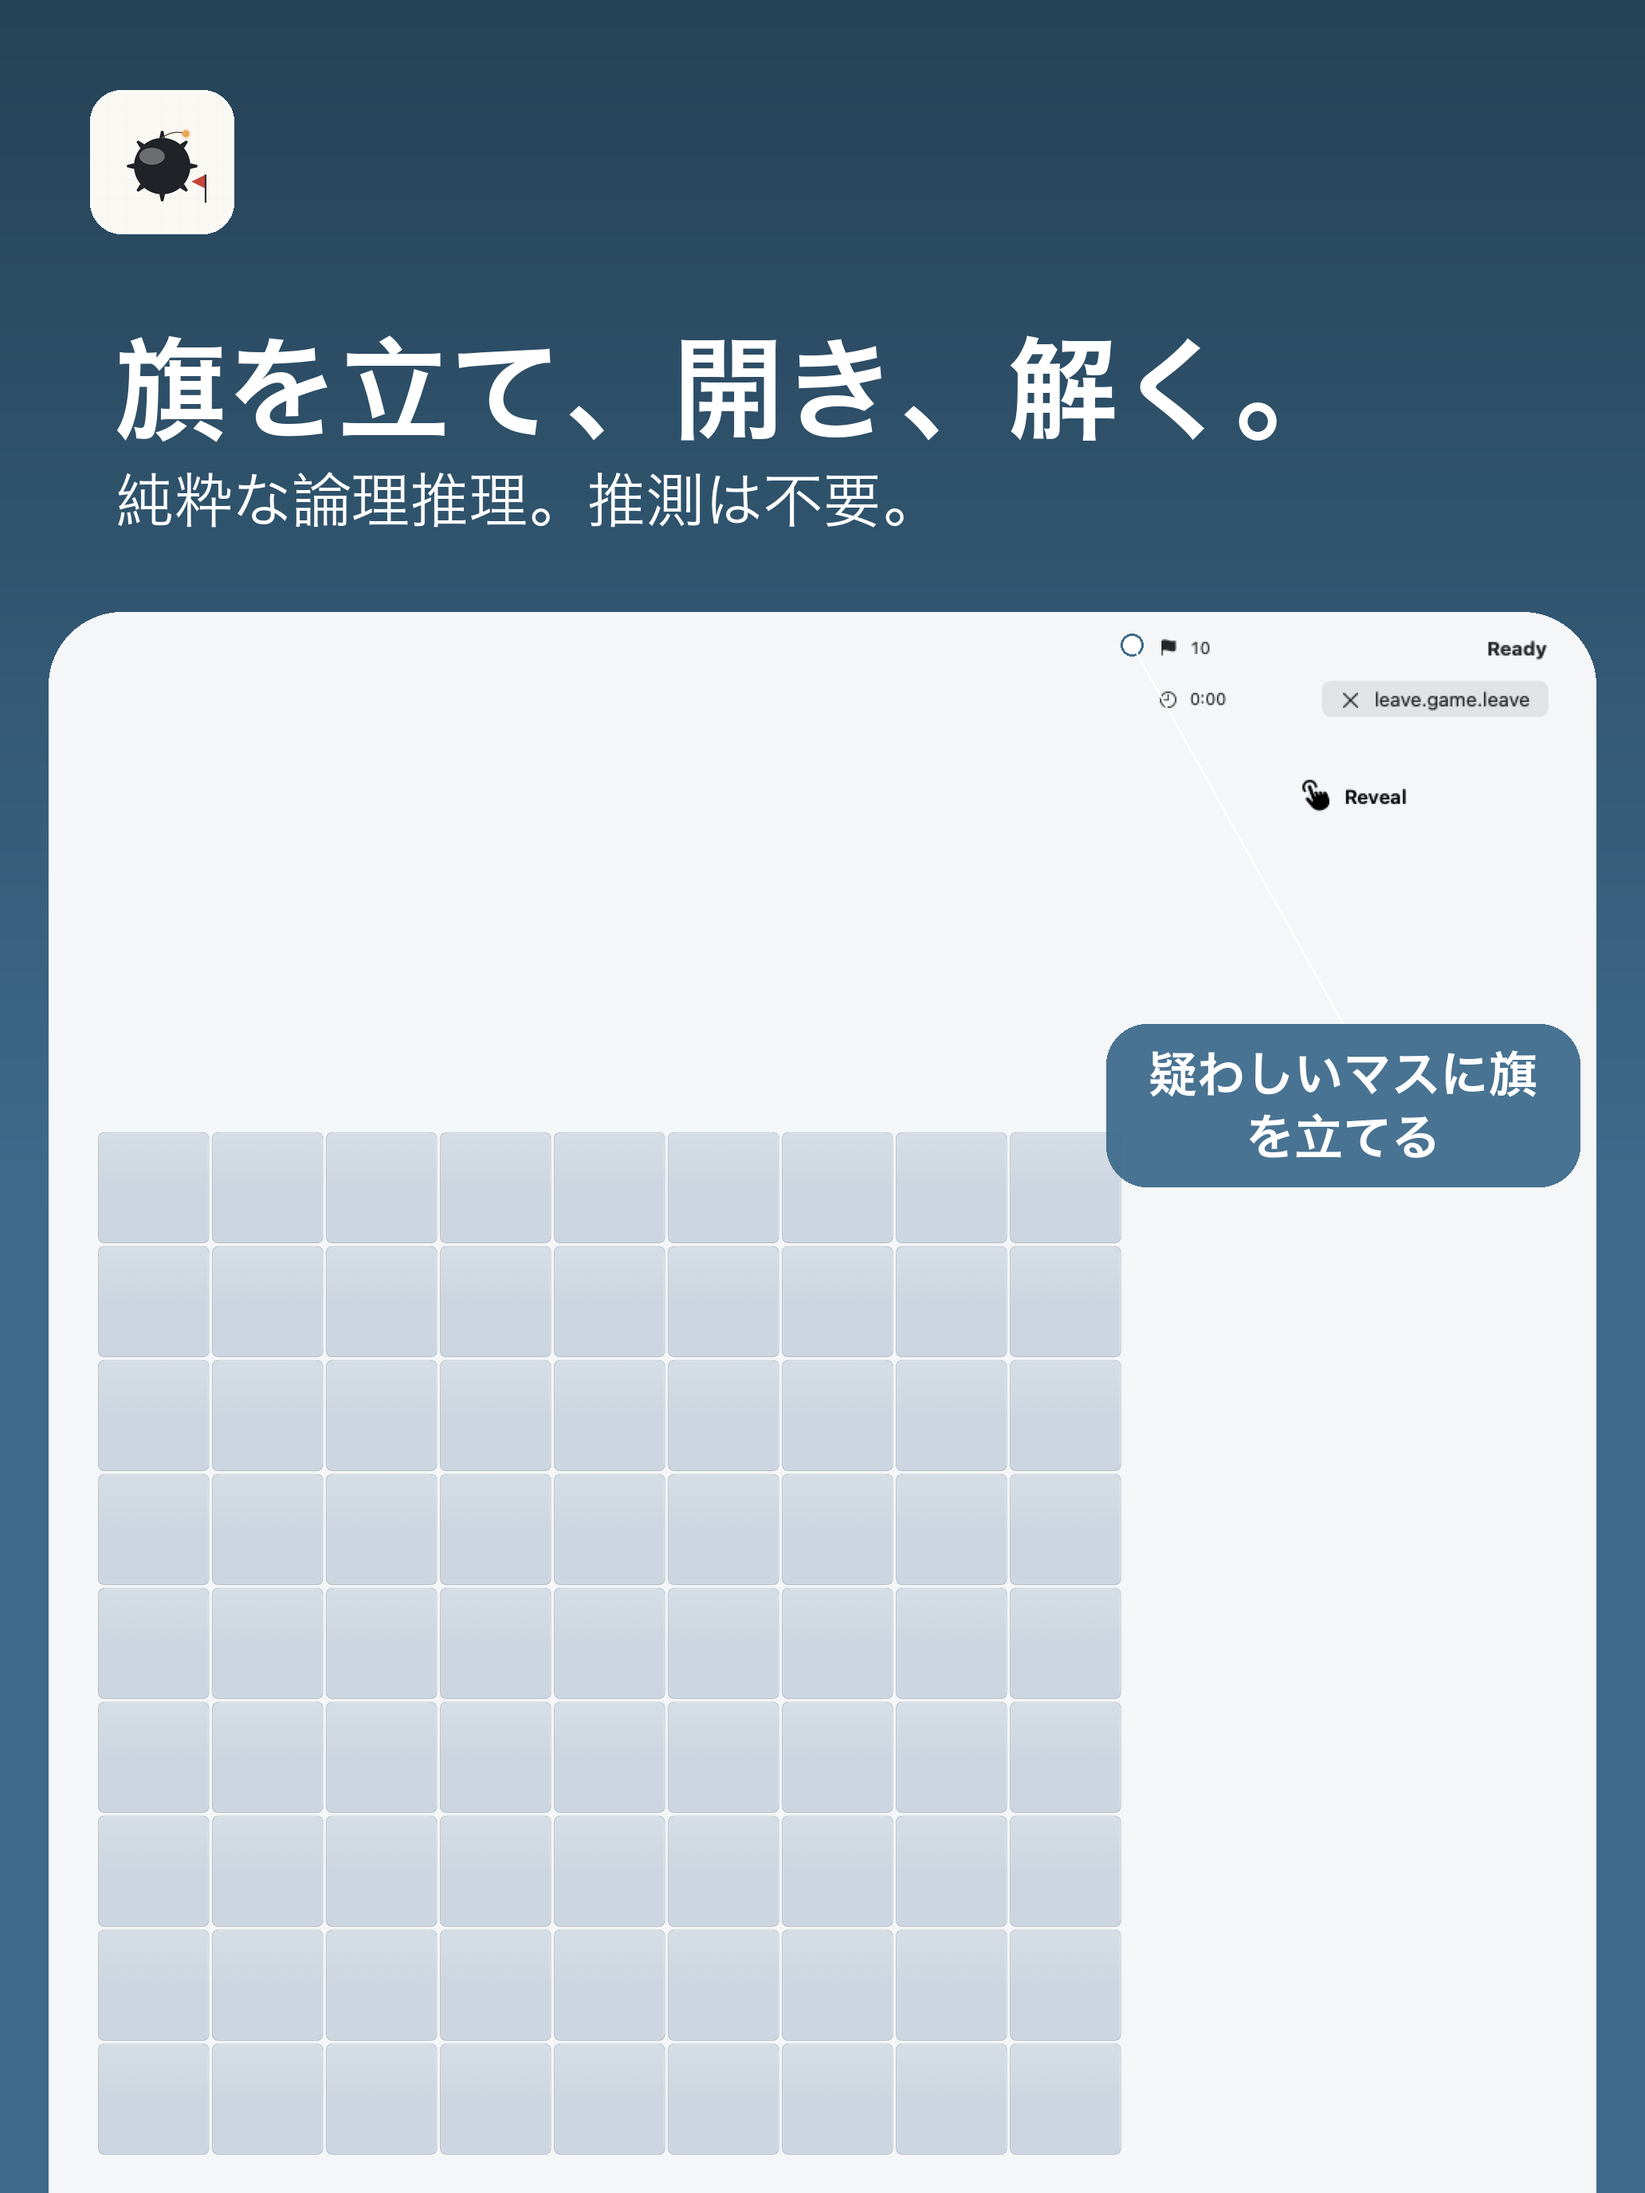
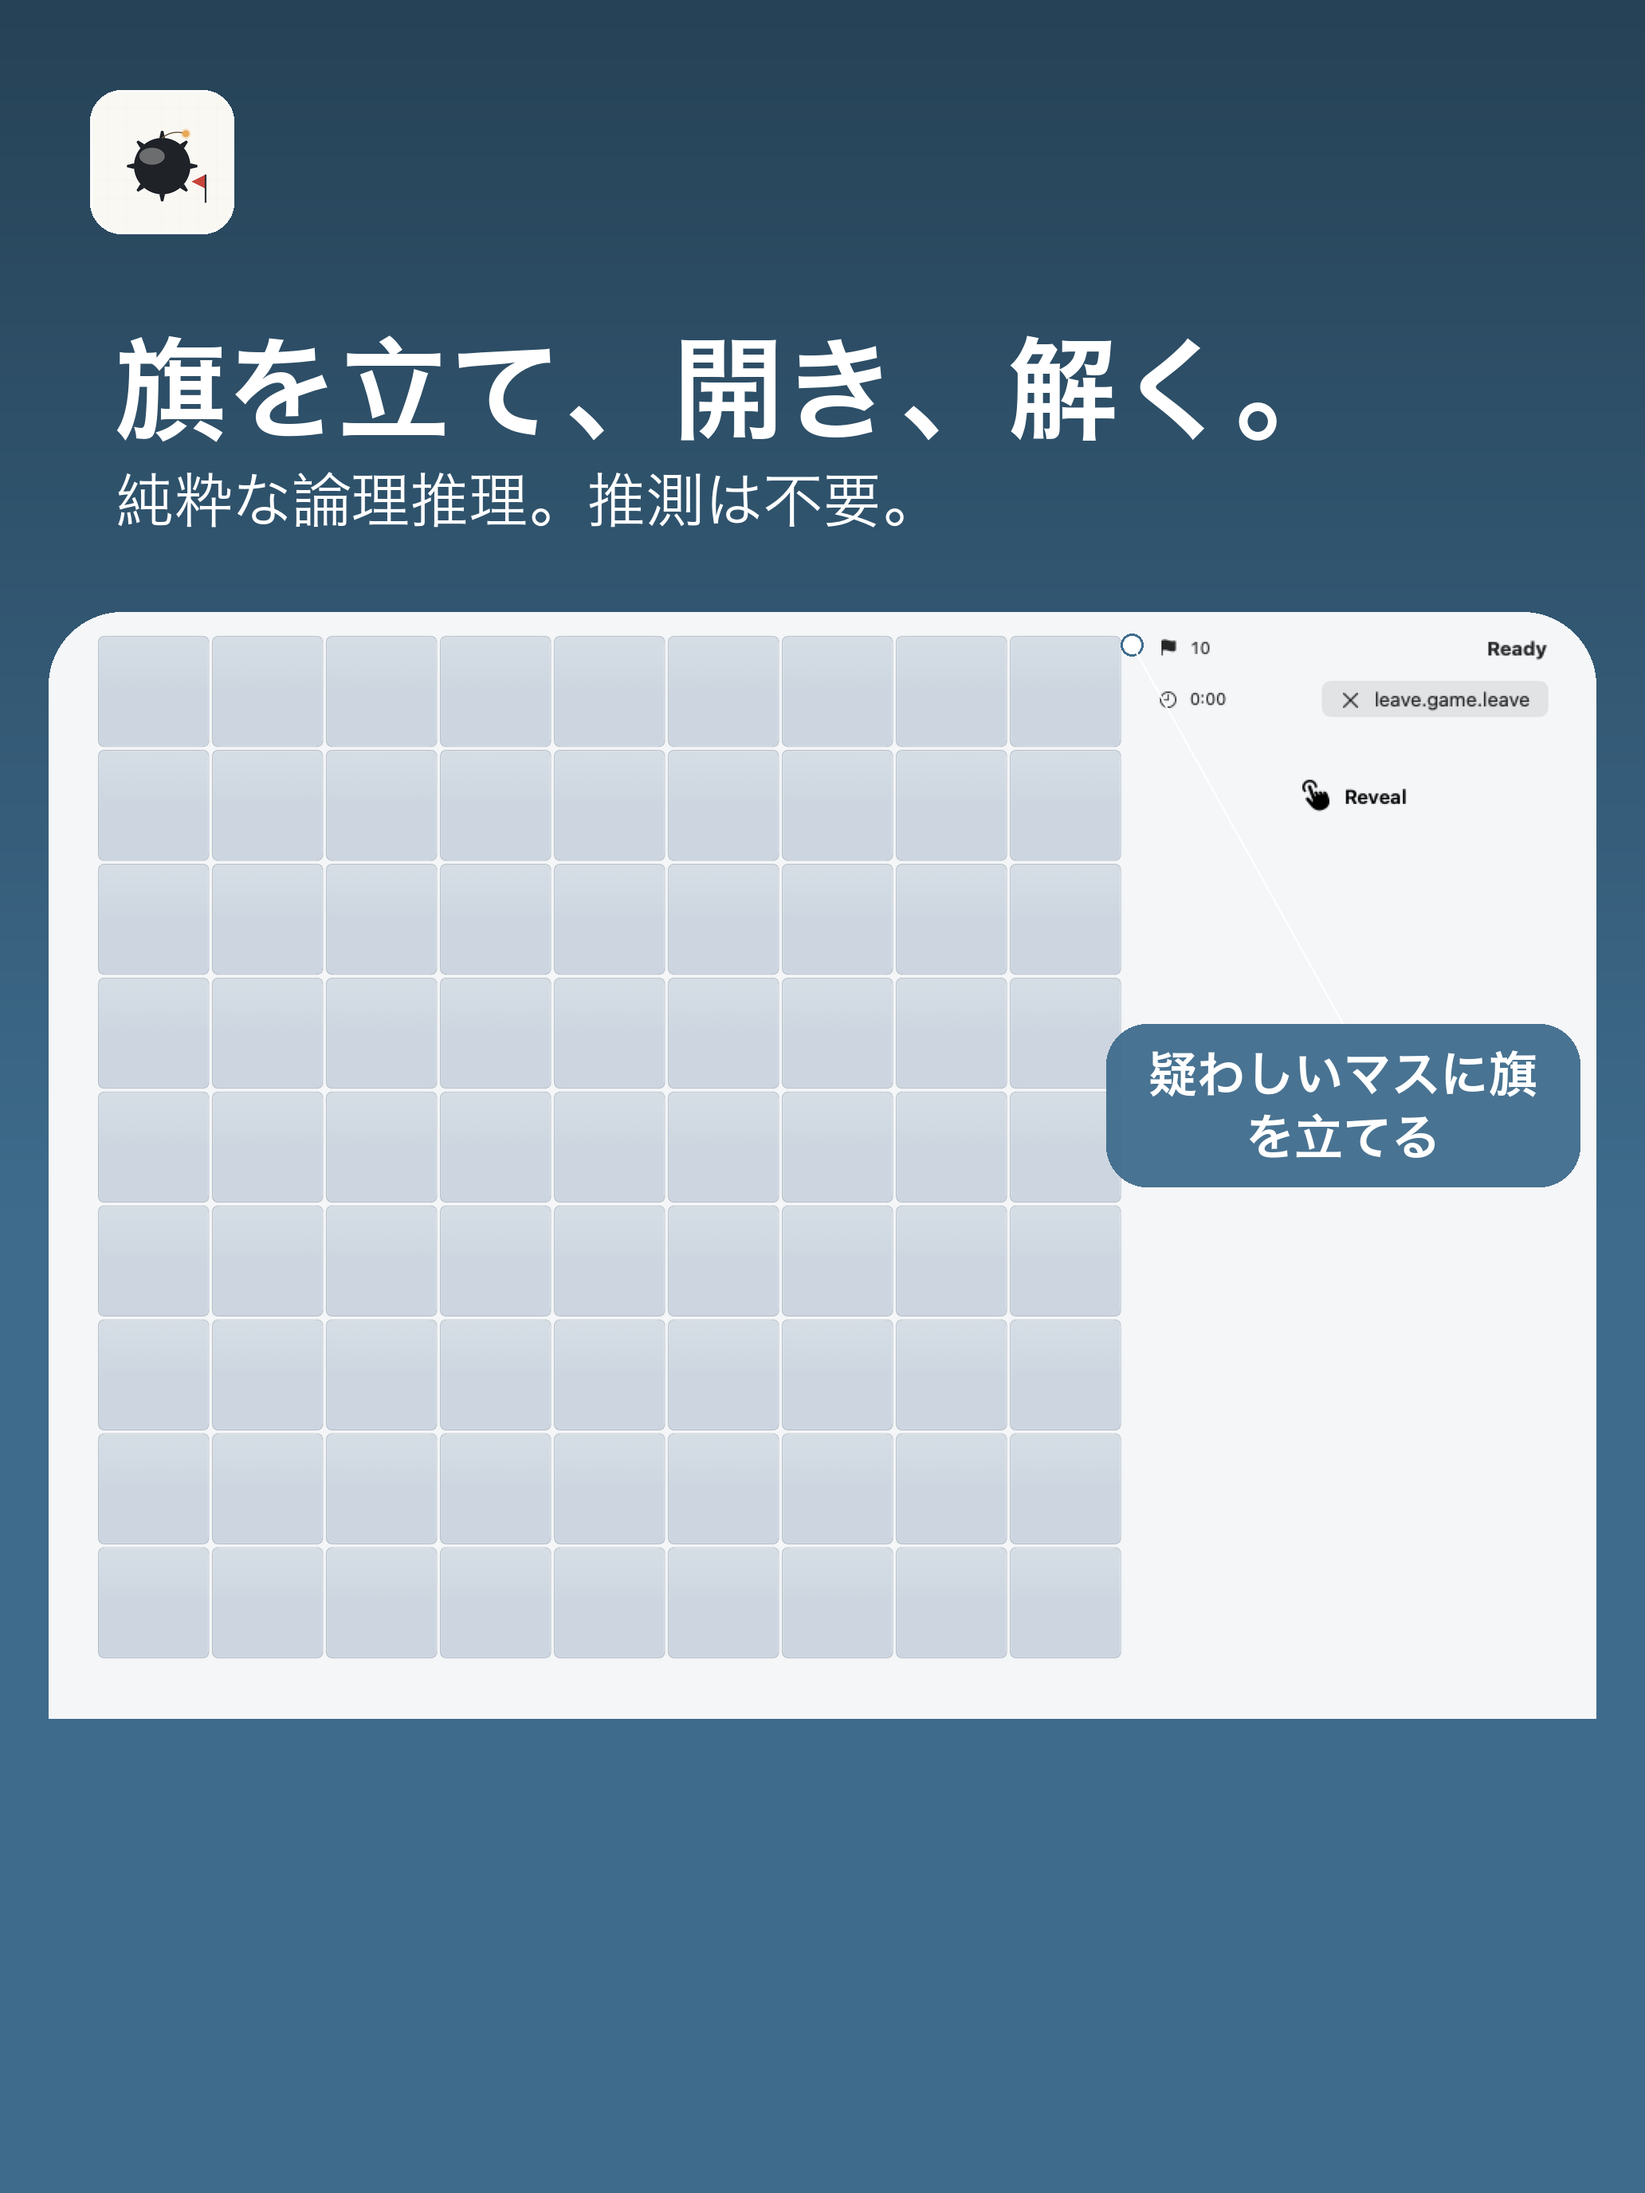
fix(board): top-align the fitted iPad board under fillsColumn (#1101 round 2)
Code review on a137f69b: Beginner (9x9) is width-bound in every regular
layout, so under .fillsColumn the fitted branch's `.center` alignment put the
same 484 pt board in the middle of the whole column, moving the blank from
below the board to above AND below it, and the ASC Beginner store frame
gained a large gap between the HUD and the board. PM ruling (2026-09-24):
"fill the column" means the board starts where the column starts, so the
fitted board is top-aligned under .fillsColumn only.

- `boardGrid` takes `fittedAlignment: Alignment = .center`, applied only to
  the `.fitted` branch frame; compact (iPhone) keeps the default, capped
  (Mac) passes `.center` via the new pure `fittedAlignment(for:)` helper
  (.fillsColumn -> .top, .cappedDetailPane -> .center), pinned by
  RegularBoardContainerTests.
- Mutations: default flipped to `.top` turns 11 iPhone/iPad board snapshots
  red; helper's .fillsColumn branch flipped to .center turns the unit test
  red. Full suite 416 tests / 71 suites green; no iPhone or Mac PNG moved;
  the capped iPad baseline still sha1 dd773643f6a36922bbd447ddd292ce1f356cc4a2.
- iPad .fillsColumn baseline re-recorded (board flush with the column top);
  the 7 Minesweeper ipad-13 03-board store frames regenerated (168 slots,
  only those 7 changed). They stay #1054-affected.

diff --git a/Packages/MinesweeperKit/Sources/MinesweeperUI/MinesweeperBoardView.swift b/Packages/MinesweeperKit/Sources/MinesweeperUI/MinesweeperBoardView.swift
@@ -510,7 +510,9 @@ public struct MinesweeperBoardView: View {
             // board. (An earlier revision of #1022 added one here and then
             // removed it; this note is why it should not come back, not a
             // record of something main ever had.)
-            boardGrid
+            // #1101 round 2: compact (iPhone) always centers its fitted
+            // board — only regular `.fillsColumn` (iPad) top-aligns.
+            boardGrid()
                 .layoutPriority(1)
             bannerSlot(horizontalPadding: theme.spacing.medium)
             controlCluster
@@ -603,7 +605,7 @@ public struct MinesweeperBoardView: View {
     }
 
     private var macBoardColumn: some View {
-        boardGrid
+        boardGrid(fittedAlignment: Self.fittedAlignment(for: regularBoardContainer))
             .frame(maxWidth: macBoardFrameMaxSide, maxHeight: macBoardFrameMaxSide)
             .frame(maxWidth: .infinity, alignment: .center)
     }
@@ -895,6 +897,24 @@ public struct MinesweeperBoardView: View {
         }
     }
 
+    // #1101 round 2: Beginner (9×9) is always width-bound and lands in
+    // `.fitted`. Under `.fillsColumn` (iPad), `.fitted`'s frame is the WHOLE
+    // column height, and a `.center` alignment there splits the leftover
+    // space into a band above AND below the board — the ASC Beginner store
+    // frame showed this as dead space sandwiched around a small board. "Fill
+    // the column" should mean the board starts flush with the column's top
+    // (level with the status bar/HUD above it), pushing all the leftover
+    // space below instead of splitting it. `.cappedDetailPane` (Mac) keeps
+    // `.center` — the 600pt square cap in `macBoardColumn` already prevents
+    // `.fitted` from receiving a tall column in the first place, so this
+    // never fires there in practice, but the mapping is total and explicit.
+    nonisolated static func fittedAlignment(for container: RegularBoardContainer) -> Alignment {
+        switch container {
+        case .fillsColumn: return .top
+        case .cappedDetailPane: return .center
+        }
+    }
+
     // MARK: - Pinch-to-zoom (#815, pure, testable)
 
     // Zoom composes ON TOP of `cellSizing` above: the ladder still picks the
@@ -1014,7 +1034,11 @@ public struct MinesweeperBoardView: View {
     // own fixed-constant treatment just above.
     private var scrollIndicatorClearance: CGFloat { theme.spacing.extraSmall }
 
-    private var boardGrid: some View {
+    // #1101 round 2: `fittedAlignment` defaults to `.center` (the pre-#1101
+    // behavior, unchanged for every existing call site) and only affects the
+    // `.fitted` branch's outer frame below; the two scroll branches are
+    // untouched.
+    private func boardGrid(fittedAlignment: Alignment = .center) -> some View {
         // GeometryReader reports the offered rectangle; we derive a single
         // square cell side that fits the NON-SQUARE board by its longer axis
         // (Expert is 16×30), then floor it for crisp glyphs. See
@@ -1045,7 +1069,7 @@ public struct MinesweeperBoardView: View {
             switch sizing.branch {
             case .fitted:
                 gridStack(rows: rows, cols: cols, cellSide: sizing.cellSide, spacing: spacing)
-                    .frame(width: geo.size.width, height: geo.size.height, alignment: .center)
+                    .frame(width: geo.size.width, height: geo.size.height, alignment: fittedAlignment)
             case .heightFitScrollHorizontal:
                 ScrollView(.horizontal) {
                     gridStack(rows: rows, cols: cols, cellSide: effectiveCellSide, spacing: spacing)

diff --git a/Packages/MinesweeperKit/Tests/MinesweeperUITests/RegularBoardContainerTests.swift b/Packages/MinesweeperKit/Tests/MinesweeperUITests/RegularBoardContainerTests.swift
@@ -22,4 +22,13 @@ struct RegularBoardContainerTests {
     func environmentDefaultsToPlatformDefault() {
         #expect(EnvironmentValues().regularBoardContainer == RegularBoardContainer.platformDefault)
     }
+
+    // #1101 round 2: `.fitted` boards top-align under `.fillsColumn` (iPad,
+    // so leftover column space lands below the board, not split above/below
+    // it) and stay centered under `.cappedDetailPane` (Mac, unchanged).
+    @Test("fittedAlignment maps fillsColumn to top and cappedDetailPane to center")
+    func fittedAlignmentMapsPerContainer() {
+        #expect(MinesweeperBoardView.fittedAlignment(for: .fillsColumn) == .top)
+        #expect(MinesweeperBoardView.fittedAlignment(for: .cappedDetailPane) == .center)
+    }
 }
